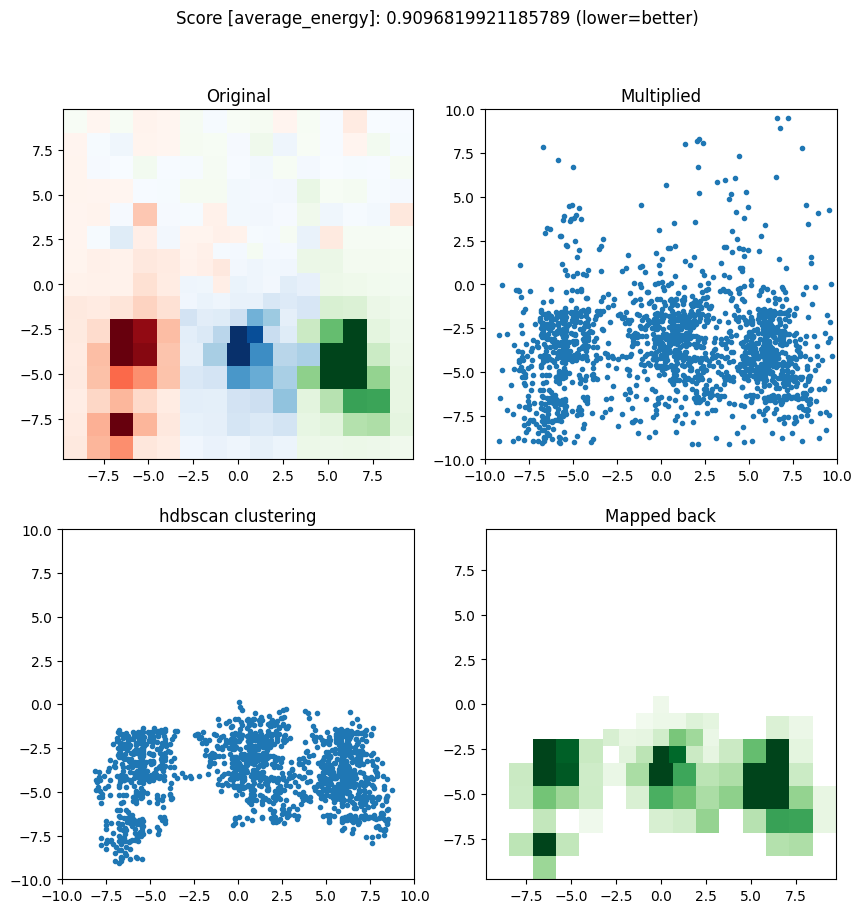
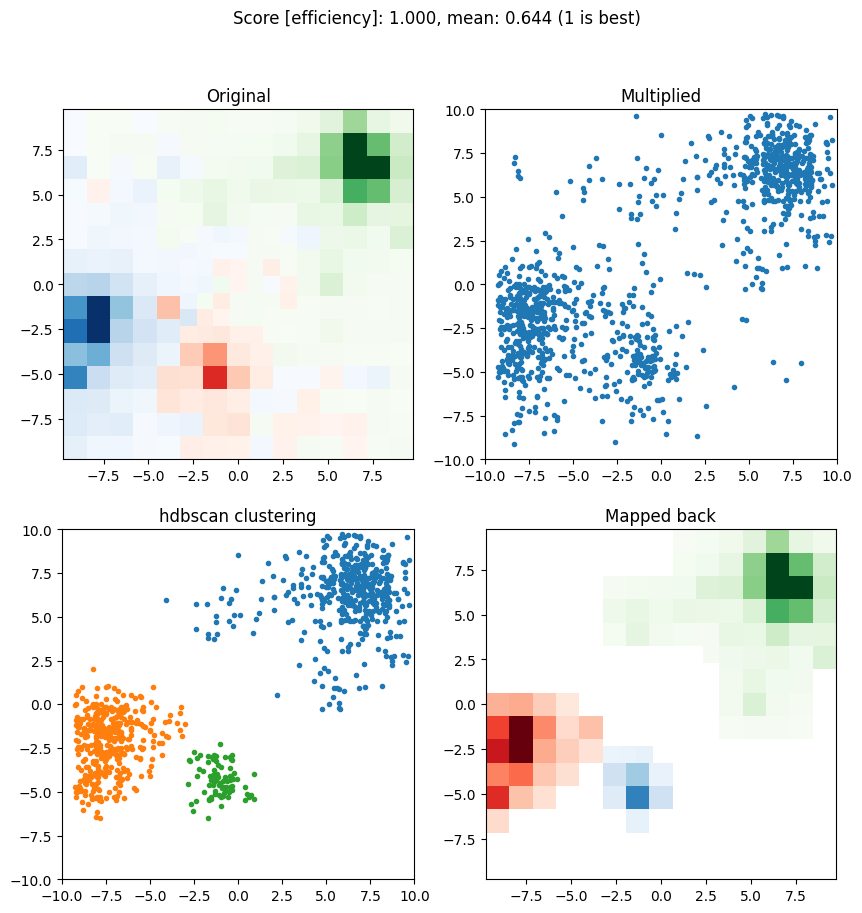
added SklearnClusterer and moved around some code

diff --git a/optimize.py b/optimize.py
@@ -22,6 +22,7 @@ from lib.modified_aggregation_clusterer import ModifiedAggregationClusterer
 import lib.base_nn as BNN
 import lib.unet_nn as UNet
 from lib.unet_clusterer import UNetClusterer
+from lib.sklearn_clusterer import SklearnClusterer
 from lib.train import Train
 from lib.focal import FocalH
 from lib import efficiency, coverage, vmeas, compute_score, average_energy,              count_clusters,count_labels
@@ -287,9 +288,7 @@ def unpack_parameters(par_keys, trial, config):
     """
     Unpack from yaml file the parameters and suggest in one go.
     """
-    print(config)
     for i,par in enumerate(config["parameters"]):
-        print("")
         if par["type"] == "float":
             par_keys[par['name']] = trial.suggest_float(par['name'], float(par['min']), float(par['max']))
         elif par["type"] == "int":
@@ -308,124 +307,59 @@ def sklearn_optimize(data, method, its):
     """
     trans = load_transformation()["basic"]
     dataloader = BNN.Data()
-    x,y,z,dlab = dataloader.generic_data(data)
-    method_name = method["name"]
 
-    N = len(x)
+    sk_cluster = SklearnClusterer()
+    d = sk_cluster.data(data)
 
     def objective(trial):
-        """
-        Data transformation
-        """
-        X = [None]*N # Transformed coordinates
-        Y = [None]*N # Clustered labels of transformed coordinates
-        cl = [None]*N # Could be array of known size
-
-        data_pars = []
         transformation_types = [name for name, config in trans.items()]
         transformation_choice = trial.suggest_categorical("trans", transformation_types)
-
-        for i in range(N):
-            X[i] = transformation(x[i], y[i], z[i], trans[transformation_choice])
-
-        model = None
-        """
-        Method initialization
-        """
-        match method_name:
-            case "dbscan":
-                pars = dict()
-                unpack_parameters(pars, trial, method) # Also does trial.suggest
-                model = cluster.DBSCAN(**pars)
-            case "hdbscan":
-                pars = dict()
-                unpack_parameters(pars, trial, method) # Also does trial.suggest
-                model = cluster.HDBSCAN(**pars)
-            case "baygauss":
-                pars = dict()
-                unpack_parameters(pars, trial, method) # Also does trial.suggest
-                model = mixture.BayesianGaussianMixture(**pars)
-            case "kmeans":
-                pars = dict()
-                unpack_parameters(pars, trial, method) # Also does trial.suggest
-                model = cluster.KMeans(**pars)
-            case _:
-                raise ValueError(f"Unknown method: {method_name}")
 
         """
         Cluster and evaluate
         """
-        if method["labels"] == True:
-            for i in range(len(X)):
-                model.fit(X[i])
-                Y[i] = model.labels_.astype(int)
-                Y[i] += 1 # Not clustered is 0 in my clustering methods
-                cl[i] = dataloader.kdtree_map(X[i], np.column_stack([x[i], y[i]]), Y[i])
-        else:
-            for i in range(len(X)):
-                model.fit(X[i])
-                Y[i] = model.predict(X[i])
-                Y[i] += 1 # Not clustered is 0 in my clustering methods
-                cl[i] = dataloader.kdtree_map(X[i], np.column_stack([x[i], y[i]]), Y[i])
+        # Before this you need to check if oracle
+        # use sk_cluster
+        # sk_cluster(X,)
+        pars = dict()
+        unpack_parameters(pars, trial, method) # Also does trial.suggest
 
-        score_type = "average_energy"
-        score = compute_score(cl, dlab, z, score_type)
+        tags = sk_cluster.cluster(d, trans[transformation_choice], method, **pars)
 
-        fig,ax=plt.subplots(nrows=2, ncols=2, figsize=(10,10))
-        fig.suptitle(f"Score [{score_type}]: {score.mean()} (lower=better)")
+        score_type = "efficiency"
+        score = compute_score(tags, d["labels"], d["values"], score_type)
+
+
+        """
+        test_idx = 55
+        fig,ax=plt.subplots(nrows=1, ncols=2, figsize=(10,5))
+        fig.suptitle(f"Score [{score_type}]: {score[test_idx]:.3f}, mean: {score.mean():.3f} (1 is best)")
         for a in ax.flatten():
             a.set_xlim(-10,10)
             a.set_ylim(-10,10)
-        test_idx = 55
 
         iadj = np.load("p2_sim_adj_map2.npy")
         SAT = 4096
         foc = FocalH()
-        foc.heatmap(z[test_idx][iadj],dlab[test_idx][iadj],ax[0][0],SAT)
+        foc.heatmap(d["values"][test_idx][iadj],d["labels"][test_idx][iadj],ax[0],SAT)
         #ax[0][0].scatter(x[test_idx], y[test_idx], s=50*z[test_idx]/z[test_idx].max())
-        ax[0][1].scatter(X[test_idx][:,0], X[test_idx][:,1], marker=".")
+        #ax[0][1].scatter(X[test_idx][:,0], X[test_idx][:,1], marker=".")
 
-        for l in set(Y[test_idx]):
-            if l == 0:
-                continue
-            mask = Y[test_idx] == l
-            ax[1][0].scatter(X[test_idx][mask][:,0], X[test_idx][mask][:,1], marker=".")
+        foc.heatmap(d["values"][test_idx][iadj],tags[test_idx][iadj],ax[1],SAT)
 
-        foc.heatmap(z[test_idx][iadj],cl[test_idx][iadj],ax[1][1],SAT)
-
-        ax[0][0].set_title(f"Original")
-        ax[0][1].set_title(f"Multiplied")
-        ax[1][0].set_title(f"{method_name} clustering")
-        ax[1][1].set_title(f"Mapped back")
+        ax[0].set_title(f"Original")
+        ax[1].set_title(f"Mapped back")
 
         fig.savefig(f"dump/trans_test_{trial.number}.png", bbox_inches="tight")
         plt.clf()
+        """
 
         return (score.mean() - 1)**2
-
 
     study = optuna.create_study()
     study.optimize(objective, n_trials=its)
 
     return study
-
-
-def transformation(x, y, z, trans):
-    """
-    Transform the data according to some transformation method.
-    """
-    parameters = trans["parameters"]
-    pars_unpacked = [par["constant"] for par in parameters]
-    dataloader = BNN.Data()
-    match trans["name"]:
-        case "multiply":
-            x, y = dataloader.transform_multiply(x, y, z, *pars_unpacked)
-            return np.column_stack([x,y])
-        case "3d":
-            pass
-        case _:
-            raise ValueError(f"Unknown transformation: {trans}")
-    return x,y,z
 
 
 def main():

diff --git a/lib/sklearn_clusterer.py b/lib/sklearn_clusterer.py
@@ -1,0 +1,113 @@
+"""
+Object to cluster with different sklearn types.
+Will need a switch function (from optimize.py probably)
+and also the data transforms. Everything will probably be moved here.
+"""
+
+
+from sklearn import cluster, mixture
+import lib.base_nn as BNN
+import numpy as np
+
+class SklearnClusterer:
+    def __init__(self):
+        # Reference 
+        pass
+
+
+    def transformation(self, x, y, z, trans):
+        """
+        Transform the data according to some transformation method.
+        Why is this in this class?
+        """
+        parameters = trans["parameters"]
+        pars_unpacked = [par["constant"] for par in parameters]
+        dataloader = BNN.Data()
+        match trans["name"]:
+            case "multiply":
+                x, y = dataloader.transform_multiply(x, y, z, *pars_unpacked)
+                return np.column_stack([x,y])
+            case "3d":
+                pass
+            case _:
+                raise ValueError(f"Unknown transformation: {trans}")
+        return x,y,z
+
+
+    def data(self, config):
+        """
+        Prepare generic data.
+        """
+
+        dataloader = BNN.Data()
+        iadj = np.load("p2_sim_adj_map2.npy")
+
+        data = dataloader.generic_data(config)
+        data["adj"] = iadj
+
+        # Return adjacency and mapped values and labels
+        return data
+
+
+    def event_data(self, ttree, event):
+        """
+        Prepare data for single event.
+        """
+        pass
+
+
+    def handle_method(self, method_name, pars):
+        model = None
+        match method_name:
+            case "dbscan":
+                model = cluster.DBSCAN(**pars)
+            case "hdbscan":
+                model = cluster.HDBSCAN(**pars)
+            case "baygauss":
+                model = mixture.BayesianGaussianMixture(**pars)
+            case "kmeans":
+                model = cluster.KMeans(**pars)
+            case _:
+                raise ValueError(f"Unknown method: {method_name}")
+        return model
+
+    #def cluster(self, seed, agg, A, values):
+    # Just pass in a named dictionary
+    def cluster(self, data, trans, method, **method_pars):
+        """
+        Transform and cluster
+        """
+
+        #d = self.data(data)
+        x = data["x"]
+        y = data["y"]
+        z = data["values"]
+        dataloader = BNN.Data()
+
+        Nevents = len(data["values"])
+        tags = [None]*Nevents
+        X = [None]*Nevents # Transformed coordinates
+        Y = [None]*Nevents # Clustered labels of transformed coordinates
+
+        # transformation(x, y, z, trans):
+        for i in range(Nevents):
+            X[i] = self.transformation(x[i], y[i], z[i], trans)
+
+        model = self.handle_method(method["name"], method_pars)
+
+        for i in range(Nevents):
+            if method["labels"] == True:
+                model.fit(X[i])
+                Y[i] = model.labels_.astype(int)
+                Y[i] += 1 # Not clustered is 0 in my clustering methods
+                tags[i] = dataloader.kdtree_map(X[i], np.column_stack([x[i], y[i]]), Y[i])
+            else:
+                model.fit(X[i])
+                Y[i] = model.predict(X[i])
+                Y[i] += 1 # Not clustered is 0 in my clustering methods
+                tags[i] = dataloader.kdtree_map(X[i], np.column_stack([x[i], y[i]]), Y[i])
+
+
+        return tags
+
+

diff --git a/evaluate.py b/evaluate.py
@@ -85,7 +85,7 @@ def handle_method(data: Any, study: Any):
         adj, values, labels, energy = cluster.data(data) # Should also return energy I think
         tags = cluster.cluster(pars["seed"], pars["agg"], adj, values)
         return tags, labels, values, energy
-    if name == "cnn":
+    elif name == "cnn":
         pars = study["study"].best_params
         cluster = UNetClusterer()
         events, targets, counts, mapping, labels, values, energy, adj = cluster.data(data)
@@ -93,6 +93,15 @@ def handle_method(data: Any, study: Any):
         u = torch.load(str(p.parent)+"/"+study["model_file"], weights_only=False)
         tags = cluster.cluster(events, u, pars["seed"], pars["agg"], adj, labels, mapping)
         return tags, labels.squeeze().detach().numpy(), values.squeeze().detach().numpy(), energy
+    elif name in ["hdbscan"]:
+        pars = study["study"].best_params
+        cluster = SklearClusterer()
+        d = cluster.data(data)
+        tags = cluster.cluster(data, trans[transformation_choice], method, **pars)
+        pass
+    else:
+        return
+
 
 def main():
     parser = argparse.ArgumentParser(description="Evaluate clustering method")

diff --git a/lib/metrics.py b/lib/metrics.py
@@ -38,7 +38,7 @@ def efficiency(clusters, labels):
     """
     Compute the efficieny (clusters-per-particle)
     """
-    eff = -100
+    eff = float(-100)
     try:
         eff = float(count(clusters)) / float(count(labels))
     except ZeroDivisionError:
@@ -74,6 +74,9 @@ def coverage(clusters, labels, values):
 
 def average_intensity_ratio(clusters, labels, values):
     try:
+        #RuntimeWarning: invalid value encountered in scalar divide
+        #cl_avg = total(clusters,values) / count(clusters)
+
         cl_avg = total(clusters,values) / count(clusters)
         lab_avg = total(labels,values) / count(labels)
         # Check for NaN or inf in the result
@@ -117,7 +120,7 @@ def compute_score(tags, labels, values, score):
     Function to handle which score to compute.
     Could also be handled in part by yaml (lol).
     """
-    scores = np.zeros(len(values))
+    scores = np.zeros(len(values), dtype=np.float32)
     if score == "efficiency":
         for i in range(len(scores)):
             scores[i] = efficiency(tags[i], labels[i])

diff --git a/lib/base_nn.py b/lib/base_nn.py
@@ -143,7 +143,15 @@ class Data(): # or DataLoader, DataTransformer?
         arr_npval = np.concatenate(l_npval)
         arr_npdlab = np.concatenate(l_npdlab)
 
-        return arr_npx, arr_npy, arr_npval, arr_npdlab, l_energy
+        d = dict()
+        d["x"] = arr_npx
+        d["y"] = arr_npy
+        d["values"] = arr_npval
+        d["labels"] = arr_npdlab
+        d["energy"] = l_energy
+
+        #return arr_npx, arr_npy, arr_npval, arr_npdlab, l_energy
+        return d
 
 
     """

diff --git a/lib/__init__.py b/lib/__init__.py
@@ -12,6 +12,7 @@ from .modified_aggregation_clusterer import ModifiedAggregationClusterer
 
 
 from .unet_clusterer import UNetClusterer
+from .sklearn_clusterer import SklearnClusterer
 
 from .metrics import efficiency, coverage, vmeas, compute_score, average_energy,                count_clusters,count_labels
 
